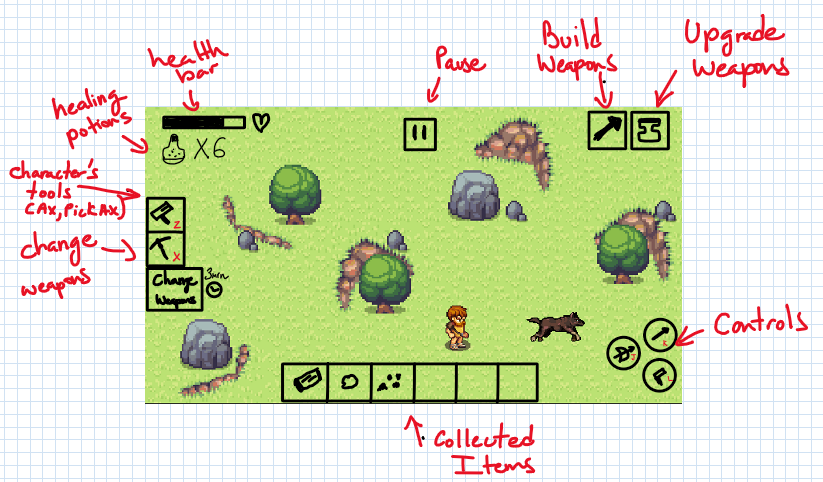
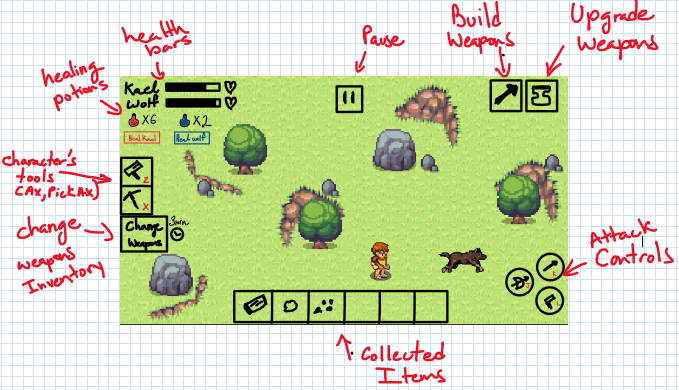
added new data collection section to the gdd

diff --git a/videojuego/GDD.md b/videojuego/GDD.md
@@ -136,7 +136,7 @@ Overall, we would want to create a balance between adventure and tension in the 
          2. Second Attack
          3. Third Attack
       3. Player Tools (hand axe and pick axe)
-      4. Health potions
+      4. Health potion buttons (one for the player and one for the wolf)
       5. Build weapons button
       6. Upgrade weapons button
       7. Pause button
@@ -250,7 +250,7 @@ Overall, we would want to create a balance between adventure and tension in the 
 
    1. The player can use the items that he collects (wood and rocks) to build his weapons.
    2. The player can upgrade the statistics of his weapons by using the items (wood and rocks) that he collects.
-   3. The player can restore his health or the wolf's health by using the healing potions that he can create with the healing remedies.
+   3. The player can restore his health or the wolf's health by using the health potions that he can create with the healing remedies. The player can create health potions for restoring the health of the main character and health potions for restoring the health of the wolf.
    4. The player can carry a maximum of 3 weapons at a time.
    5. The player can change his weapons every 3 minutes by selecting the desired weapons from the inventory.
    6. The player can use the keys "J", "K" and "L" to execute the desired attack. Each key will be linked to the 3 current weapons that the player has.
@@ -593,10 +593,16 @@ As we've mentioned before, one of the main characteristics/features of our game 
       <img src="./assets/collectableObjects/collectableRock.png">
    </div>
 
-   3. Health remedy (collectable item)
+   3. Red healing remedy (collectable item)
 
    <div align="center">
-      <img src="./assets/collectableObjects/healingRemedy.png">
+      <img src="./assets/collectableObjects/redHealingRemedy.png">
+   </div>
+
+   3. Blue healing remedy (collectable item)
+
+   <div align="center">
+      <img src="./assets/collectableObjects/blueHealingRemedy.png">
    </div>
 
 4. Other
@@ -653,10 +659,18 @@ As we've mentioned before, one of the main characteristics/features of our game 
          <img src="./assets/weapons/sword.png">
          </div>
 
-   3. Health potion
+   3. Health potions
+
+      1. Red health potion
 
       <div align="center">
-         <img src="./assets/interactableObjects/hp_potion_x5.png" width="25px" height= "25px">
+         <img src="./assets/interactableObjects/redHealthPotion.png" width="25px" height= "25px">
+      </div>
+
+      1. Blue health potion
+
+      <div align="center">
+         <img src="./assets/interactableObjects/blueHealthPotion.png" width="25px" height= "25px">
       </div>
 
 ## _Sounds/Music_
@@ -721,7 +735,12 @@ This game will be embedded in a web page that has connection to a relational dat
 
 1. Most built weapons by players.
 2. The most upgraded weapons by players.
-<!-- 3. The amount of times the players have to  -->
+3. The 3 weapons that are most used at one time.
+4. The most played level in the game.
+5. The level that causes the player to lose the most.
+6. The number of times that health potions are created to restore the player's health. 
+7. The number of times that health potions are created to restore the wolf's health. 
+8. The checkpoint where the player loses the most.
 
 ## _Schedule_
 
@@ -772,7 +791,7 @@ This game will be embedded in a web page that has connection to a relational dat
    7. level completed screen
    8. game over screen
    9. settings/config screen
-   10. sign in/ log in screen
+   10. sign in/log in screen
 
 9. Design levels
 
